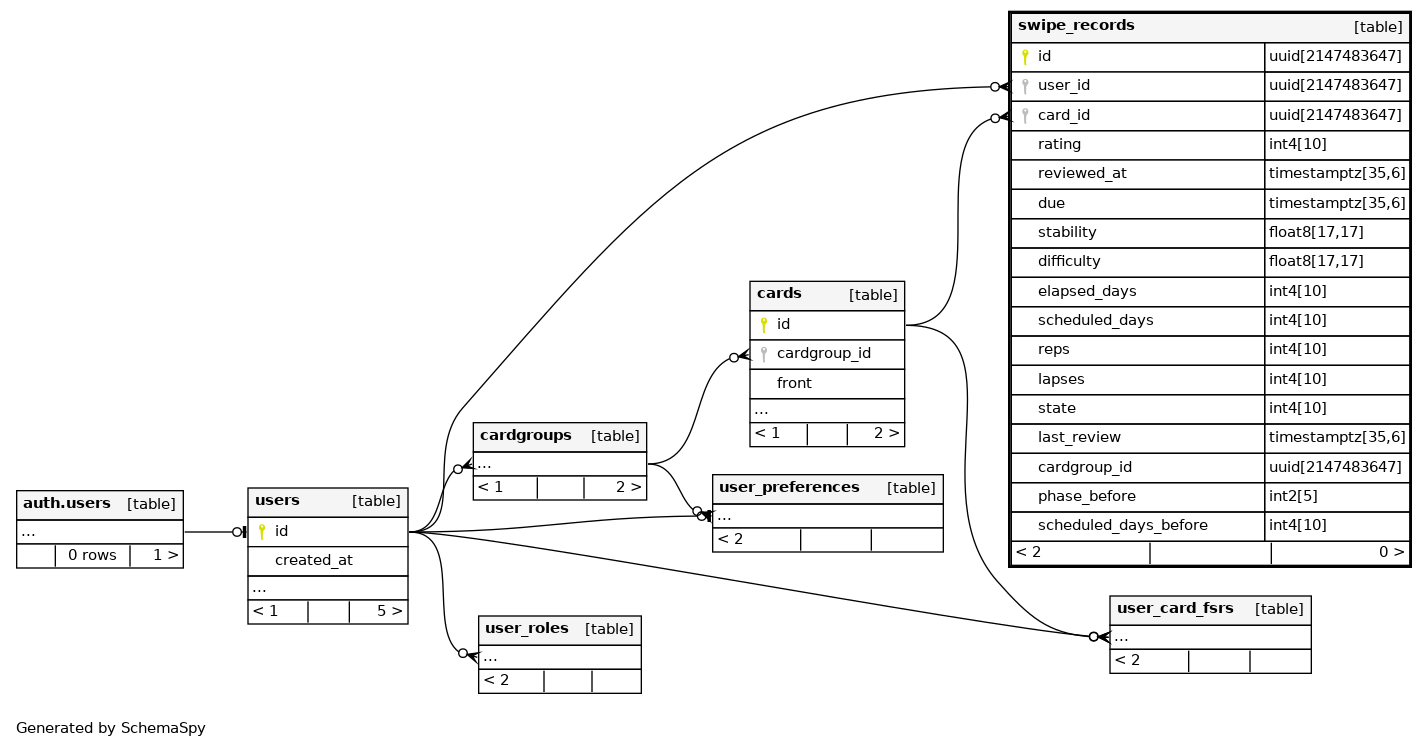
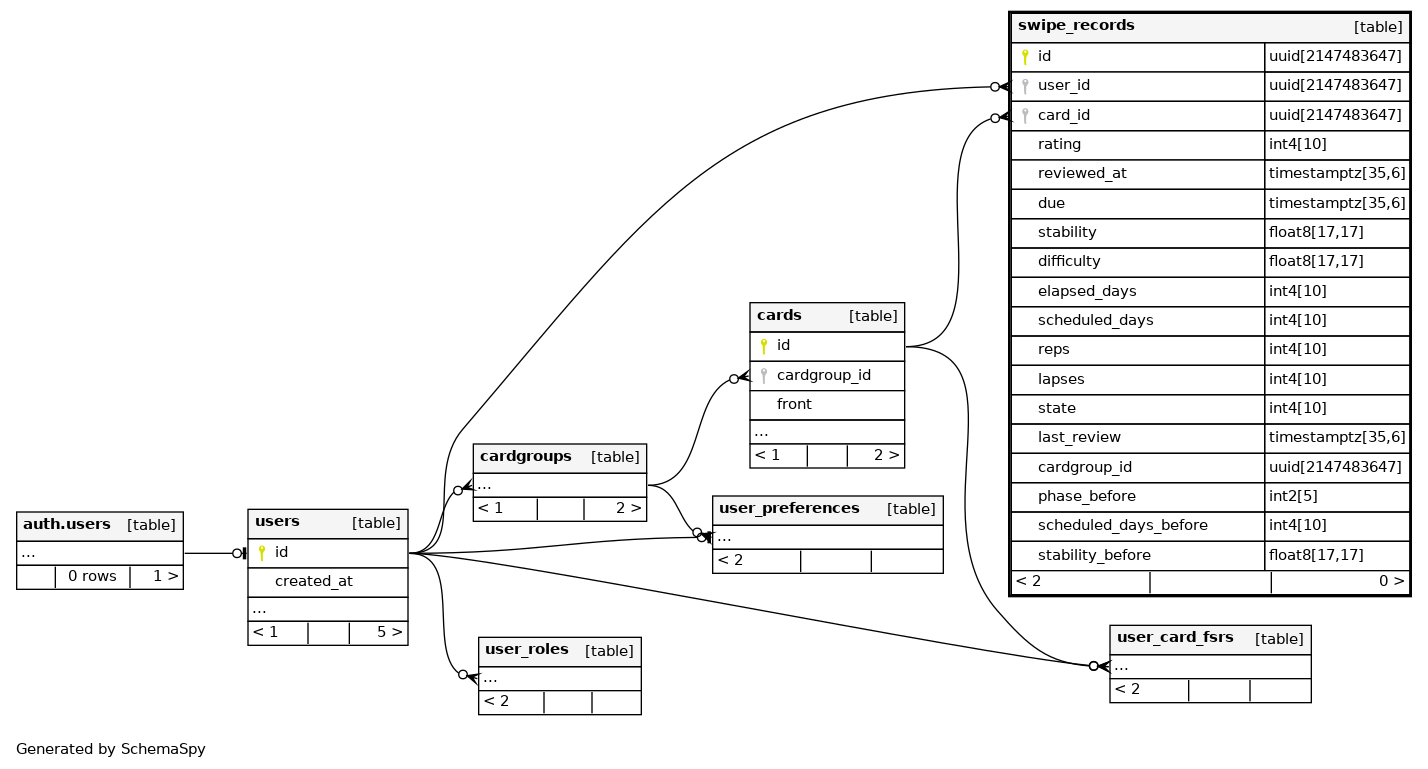
Deploying to gh-pages from @ yasuflatland-lf/flamingo-armond@1b7e925915bed4dd707683e9fa5f4a336631e5ed 🚀

diff --git a/er-chart/relationships.html b/er-chart/relationships.html
@@ -96,9 +96,9 @@
 <area shape="rect" id="node1" href="tables/master_cardgroups.html" target="_top" title="master_cardgroups" alt="" coords="319,35,591,240">
 <area shape="rect" id="node2" href="tables/cardgroups.html" target="_top" title="cardgroups" alt="" coords="463,504,657,680">
 <area shape="rect" id="node8" href="tables/users.html" target="_top" title="users" alt="" coords="237,533,419,680">
-<area shape="rect" id="node3" href="tables/roles.html" target="_top" title="roles" alt="" coords="262,807,394,929">
-<area shape="rect" id="node4" href="tables/swipe_records.html" target="_top" title="swipe_records" alt="" coords="1044,629,1319,864">
+<area shape="rect" id="node3" href="tables/swipe_records.html" target="_top" title="swipe_records" alt="" coords="1044,629,1319,864">
 <area shape="rect" id="node9" href="tables/cards.html" target="_top" title="cards" alt="" coords="763,548,939,724">
+<area shape="rect" id="node4" href="tables/roles.html" target="_top" title="roles" alt="" coords="262,807,394,929">
 <area shape="rect" id="node5" href="tables/user_card_fsrs.html" target="_top" title="user_card_fsrs" alt="" coords="1070,351,1293,527">
 <area shape="rect" id="node6" href="tables/user_preferences.html" target="_top" title="user_preferences" alt="" coords="701,384,1000,531">
 <area shape="rect" id="node7" href="tables/master_cards.html" target="_top" title="master_cards" alt="" coords="635,5,888,181">
@@ -111,17 +111,17 @@
                                     <div class="chart tab-pane " id="largeDegreeImg-chart" style="position: relative; overflow-x:auto;">
                                         <map id="largeRelationshipsDiagram" name="largeRelationshipsDiagram">
 <area shape="rect" id="node1" href="tables/master_cardgroups.html" target="_top" title="master_cardgroups" alt="" coords="5,35,277,363">
-<area shape="rect" id="node2" href="tables/cardgroups.html" target="_top" title="cardgroups" alt="" coords="463,795,657,1005">
-<area shape="rect" id="node8" href="tables/users.html" target="_top" title="users" alt="" coords="237,824,419,1093">
-<area shape="rect" id="node3" href="tables/roles.html" target="_top" title="roles" alt="" coords="262,1169,394,1292">
-<area shape="rect" id="node4" href="tables/swipe_records.html" target="_top" title="swipe_records" alt="" coords="1044,1020,1319,1583">
-<area shape="rect" id="node9" href="tables/cards.html" target="_top" title="cards" alt="" coords="763,817,939,1087">
-<area shape="rect" id="node5" href="tables/user_card_fsrs.html" target="_top" title="user_card_fsrs" alt="" coords="1070,513,1293,988">
-<area shape="rect" id="node6" href="tables/user_preferences.html" target="_top" title="user_preferences" alt="" coords="701,560,1000,800">
+<area shape="rect" id="node2" href="tables/cardgroups.html" target="_top" title="cardgroups" alt="" coords="463,800,657,1011">
+<area shape="rect" id="node8" href="tables/users.html" target="_top" title="users" alt="" coords="237,829,419,1099">
+<area shape="rect" id="node3" href="tables/swipe_records.html" target="_top" title="swipe_records" alt="" coords="1044,1011,1319,1603">
+<area shape="rect" id="node9" href="tables/cards.html" target="_top" title="cards" alt="" coords="763,823,939,1092">
+<area shape="rect" id="node4" href="tables/roles.html" target="_top" title="roles" alt="" coords="262,1175,394,1297">
+<area shape="rect" id="node5" href="tables/user_card_fsrs.html" target="_top" title="user_card_fsrs" alt="" coords="1070,504,1293,979">
+<area shape="rect" id="node6" href="tables/user_preferences.html" target="_top" title="user_preferences" alt="" coords="701,565,1000,805">
 <area shape="rect" id="node7" href="tables/master_cards.html" target="_top" title="master_cards" alt="" coords="321,5,575,275">
-<area shape="rect" id="node12" title="auth.users" alt="" coords="5,824,193,947">
-<area shape="rect" id="node10" href="tables/ping_records.html" target="_top" title="ping_records" alt="" coords="737,211,947,363">
-<area shape="rect" id="node11" href="tables/user_roles.html" target="_top" title="user_roles" alt="" coords="468,1140,652,1263">
+<area shape="rect" id="node12" title="auth.users" alt="" coords="5,829,193,952">
+<area shape="rect" id="node10" href="tables/ping_records.html" target="_top" title="ping_records" alt="" coords="749,211,959,363">
+<area shape="rect" id="node11" href="tables/user_roles.html" target="_top" title="user_roles" alt="" coords="468,1145,652,1268">
 </map>
                                         <a name='diagram'><img id="largeDegreeImg" src="diagrams/summary/relationships.real.large.png" usemap="#largeRelationshipsDiagram" class="diagram" border="0" align="left"></a>
                                     </div>

diff --git a/er-chart/tables/swipe_records.html b/er-chart/tables/swipe_records.html
@@ -407,6 +407,23 @@
                                     </td>
                                     <td></td>
                                 </tr>
+                                <tr>
+                                    <td><span id="stability_before">stability_before</span></td>
+                                    <td>float8</td>
+                                    <td>17,17</td>
+                                    <td title='nullable'>√</td>
+                                    <td title=''></td>
+                                    <td>null</td>
+                                    <td>
+                                        <table border='0' cellspacing='0' cellpadding='0'>
+                                        </table>
+                                    </td>
+                                    <td>
+                                        <table border='0' cellspacing='0' cellpadding='0'>
+                                        </table>
+                                    </td>
+                                    <td></td>
+                                </tr>
                                 </tbody>
                             </table>
                         </div>
@@ -516,7 +533,7 @@
                                 <div class="tab-content no-padding">
                                     <div class="chart tab-pane active" id="oneDegreeImg-chart" style="position: relative; overflow-x:auto;">
                                         <map id="oneDegreeRelationshipsDiagram" name="oneDegreeRelationshipsDiagram">
-<area shape="rect" id="node1" href="swipe_records.html" target="_top" title="swipe_records" alt="" coords="231,40,656,608">
+<area shape="rect" id="node1" href="swipe_records.html" target="_top" title="swipe_records" alt="" coords="231,40,656,637">
 <area shape="rect" id="node2" href="cards.html" target="_top" title="cards" alt="" coords="8,169,184,345">
 <area shape="rect" id="node3" href="users.html" target="_top" title="users" alt="" coords="5,5,187,152">
 </map>
@@ -524,14 +541,14 @@
                                     </div>
                                     <div class="chart tab-pane " id="twodegreesDegreeImg-chart" style="position: relative; overflow-x:auto;">
                                         <map id="twoDegreesRelationshipsDiagram" name="twoDegreesRelationshipsDiagram">
-<area shape="rect" id="node1" href="cardgroups.html" target="_top" title="cardgroups" alt="" coords="463,417,657,505">
-<area shape="rect" id="node2" href="users.html" target="_top" title="users" alt="" coords="237,483,419,629">
-<area shape="rect" id="node8" title="auth.users" alt="" coords="5,485,193,573">
-<area shape="rect" id="node3" href="cards.html" target="_top" title="cards" alt="" coords="739,276,915,452">
-<area shape="rect" id="node4" href="swipe_records.html" target="_top" title="swipe_records" alt="" coords="997,5,1423,573">
-<area shape="rect" id="node5" href="user_card_fsrs.html" target="_top" title="user_card_fsrs" alt="" coords="1099,591,1321,679">
-<area shape="rect" id="node6" href="user_preferences.html" target="_top" title="user_preferences" alt="" coords="701,469,953,557">
-<area shape="rect" id="node7" href="user_roles.html" target="_top" title="user_roles" alt="" coords="468,611,652,699">
+<area shape="rect" id="node1" href="cardgroups.html" target="_top" title="cardgroups" alt="" coords="463,439,657,527">
+<area shape="rect" id="node2" href="users.html" target="_top" title="users" alt="" coords="237,504,419,651">
+<area shape="rect" id="node8" title="auth.users" alt="" coords="5,507,193,595">
+<area shape="rect" id="node3" href="cards.html" target="_top" title="cards" alt="" coords="739,297,915,473">
+<area shape="rect" id="node4" href="swipe_records.html" target="_top" title="swipe_records" alt="" coords="997,5,1423,603">
+<area shape="rect" id="node5" href="user_card_fsrs.html" target="_top" title="user_card_fsrs" alt="" coords="1099,620,1321,708">
+<area shape="rect" id="node6" href="user_preferences.html" target="_top" title="user_preferences" alt="" coords="701,491,953,579">
+<area shape="rect" id="node7" href="user_roles.html" target="_top" title="user_roles" alt="" coords="468,632,652,720">
 </map>
                                         <a name='diagram'><img id="twodegreesDegreeImg" src="../diagrams/tables/swipe_records.2degrees.png" usemap="#twoDegreesRelationshipsDiagram" class="diagram" border="0" align="left"></a>
                                     </div>

diff --git a/er-chart/index.html b/er-chart/index.html
@@ -78,7 +78,7 @@
                         <div class="col-md-12">
                             <div class="callout callout-info">
                                 <h4>SchemaSpy Analysis of armond.public</h4>
-                                <p>Generated on Sun Jul 19 07:28 UTC 2026</p>
+                                <p>Generated on Sun Jul 19 22:29 UTC 2026</p>
                             </div>
                         </div>
                     </div>
@@ -118,7 +118,7 @@
                                 <span class="info-box-icon bg-green"><span class="glyphicon glyphicon-list-alt" aria-hidden="true"></span></span>
                                 <div class="info-box-content">
                                     <span class="info-box-text">COLUMNS</span>
-                                    <span class="info-box-number">79</span>
+                                    <span class="info-box-number">80</span>
                                 </div>
                                 <!-- /.info-box-content -->
                             </div>
@@ -224,19 +224,19 @@
                                         <td class="comment detail" style="display: table-cell;"></td>
                                     </tr>
                                     <tr class="tbl even" valign="top">
-                                        <td class="detail"><a href="tables/roles.html">roles</a></td>
-                                        <td class="detail" align="right">1</td>
+                                        <td class="detail"><a href="tables/swipe_records.html">swipe_records</a></td>
                                         <td class="detail" align="right">0</td>
                                         <td class="detail" align="right">2</td>
+                                        <td class="detail" align="right">18</td>
                                         <td class="detail" align="right">-1</td>
                                         <td class="detail" align="right">Table</td>
                                         <td class="comment detail" style="display: table-cell;"></td>
                                     </tr>
                                     <tr class="tbl even" valign="top">
-                                        <td class="detail"><a href="tables/swipe_records.html">swipe_records</a></td>
+                                        <td class="detail"><a href="tables/roles.html">roles</a></td>
+                                        <td class="detail" align="right">1</td>
                                         <td class="detail" align="right">0</td>
                                         <td class="detail" align="right">2</td>
-                                        <td class="detail" align="right">17</td>
                                         <td class="detail" align="right">-1</td>
                                         <td class="detail" align="right">Table</td>
                                         <td class="comment detail" style="display: table-cell;"></td>

diff --git a/er-chart/tables/user_preferences.html b/er-chart/tables/user_preferences.html
@@ -291,12 +291,12 @@
                                 </thead>
                                 <tbody>
                                 <tr>
-                                    <td>user_preferences_learn_display_mode_check</td>
-                                    <td>(learn_display_mode &#61; ANY (ARRAY[&#39;flip_to_reveal&#39;::text, &#39;always_visible&#39;::text]))</td>
-                                </tr>
-                                <tr>
                                     <td>user_preferences_new_card_ratio_check</td>
                                     <td>((new_card_ratio_num &gt;&#61; 1) AND (new_card_ratio_num &lt; new_card_ratio_den) AND (new_card_ratio_den &lt;&#61; 100))</td>
+                                </tr>
+                                <tr>
+                                    <td>user_preferences_learn_display_mode_check</td>
+                                    <td>(learn_display_mode &#61; ANY (ARRAY[&#39;flip_to_reveal&#39;::text, &#39;always_visible&#39;::text]))</td>
                                 </tr>
                                 </tbody>
                             </table>

diff --git a/er-chart/tables/master_cardgroups.html b/er-chart/tables/master_cardgroups.html
@@ -343,12 +343,12 @@
                                 </thead>
                                 <tbody>
                                 <tr>
-                                    <td>master_cardgroups_status_values</td>
-                                    <td>(status &#61; ANY (ARRAY[&#39;draft&#39;::text, &#39;published&#39;::text]))</td>
-                                </tr>
-                                <tr>
                                     <td>master_cardgroups_name_length</td>
                                     <td>((char_length(TRIM(BOTH FROM name)) &gt;&#61; 1) AND (char_length(TRIM(BOTH FROM name)) &lt;&#61; 100))</td>
+                                </tr>
+                                <tr>
+                                    <td>master_cardgroups_status_values</td>
+                                    <td>(status &#61; ANY (ARRAY[&#39;draft&#39;::text, &#39;published&#39;::text]))</td>
                                 </tr>
                                 </tbody>
                             </table>

diff --git a/er-chart/columns.html b/er-chart/columns.html
@@ -811,6 +811,20 @@
         "comments": ""
     },
     {
+        "tableName": "swipe_records",
+        "tableFileName": "swipe_records",
+        "tableType": "Table",
+        "keyClass": "",
+        "keyTitle": "",
+        "name": "stability_before",
+        "type": "float8",
+        "length": 17,
+        "nullable": "√",
+        "autoUpdated": "",
+        "defaultValue": "null",
+        "comments": ""
+    },
+    {
         "tableName": "user_card_fsrs",
         "tableFileName": "user_card_fsrs",
         "tableType": "Table",
